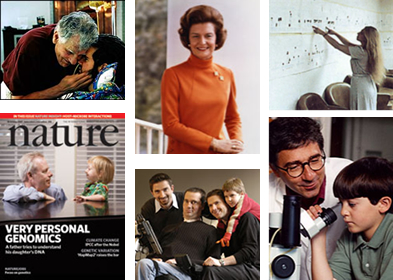
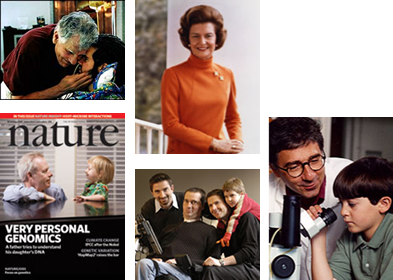
Remove Wexler from advocates, modify wording.

Changed region(s): [[0.6718, 0.0, 1.0, 0.4]]

diff --git a/templates/www_personalgenomes_org/why-participate.html b/templates/www_personalgenomes_org/why-participate.html
@@ -8,8 +8,8 @@
 <div style="float:right;max-width:40%;margin-left:24px;">
   <img src="/static/img/advocates.jpg" alt="advocates" style="display:block;margin-left:auto;margin-right:auto;">
   <p>
-    <small><strong>Advocates</strong> (clockwise from top left): Augusto Odone and his son Lorenzo for Adrenoleucodystrophy; Betty Ford for addiction; Nancy Wexler for Huntington's disease; Douglas Melton and his son for diabetes; Heywood family for ALS; Hugh Rienhoff and his daughter.<br/>
-      <span class="muted">(Photo credits: Nancy Wexler photo &copy Steve Uzzell; Heywood family photo &copy Richard Horward; Hugh Rienhoff &copy Nature Publishing Group)</span></small>
+    <small><strong>Examples of participant involvement in research</strong> (clockwise from top left): Augusto Odone and his son Lorenzo for Adrenoleucodystrophy; Betty Ford for addiction; Douglas Melton and his son for diabetes; Heywood family for ALS; Hugh Rienhoff and his daughter.<br/>
+      <span class="muted">(Photo credits: Heywood family photo &copy Richard Horward; Hugh Rienhoff &copy Nature Publishing Group)</span></small>
   </p>
 </div>
 <p>Whether one is healthy or dealing with illness, everyone possesses information that may ultimately contribute toward improving the health of others and future generations. The information in our medical records, our DNA, our lifestyles, and our environmental exposures has the potential to provide insights that can change our ability to manage and prevent debilitating diseases.</p>
